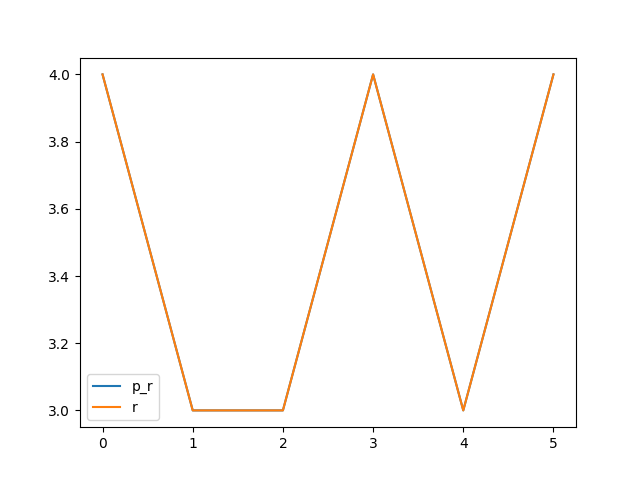
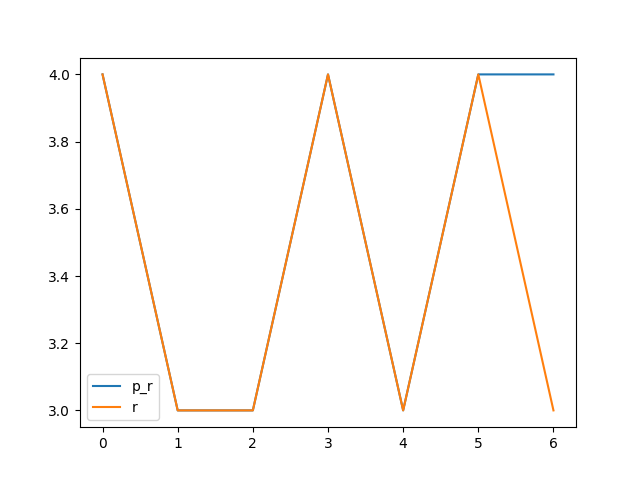
0x0006

diff --git a/benchmark.md b/benchmark.md
@@ -20,13 +20,15 @@ Synthesising 0x0004 pexact:152 r=3 exact:152 r=3
 
 Synthesising 0x0005 pexact:182 r=4 exact:352 r=4
 
+Synthesising 0x0006 pexact:208 r=4 exact:224 r=3
+
 ```mermaid
 xychart-beta
     title "Comparison powertwoexact twoexact"
-    x-axis [0, 1, 2, 3, 4, 5]
+    x-axis [0, 1, 2, 3, 4, 5, 6]
     y-axis "Switching Activity" 0-->352
-    line [96, 152, 152, 182, 152, 182]
-    line [192, 152, 152, 312, 152, 352]
+    line [96, 152, 152, 182, 152, 182, 208]
+    line [192, 152, 152, 312, 152, 352, 224]
 ```
- avg_p_s=152.67 avg_s=218.67 avg_pr=3.5 avg_r=3.5
+ avg_p_s=160.57 avg_s=219.43 avg_pr=3.57 avg_r=3.43
 
